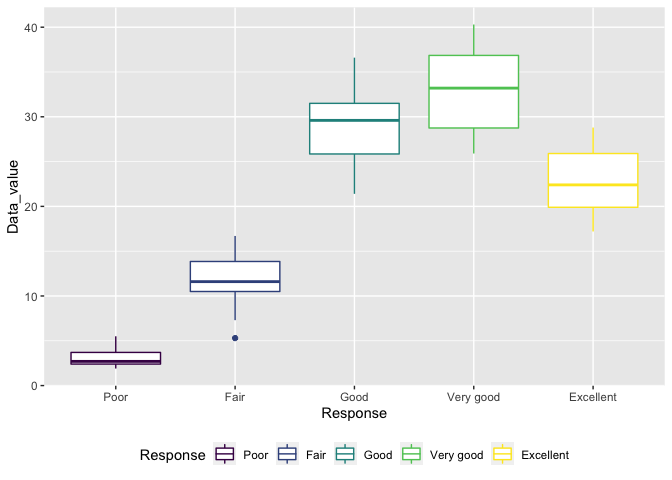
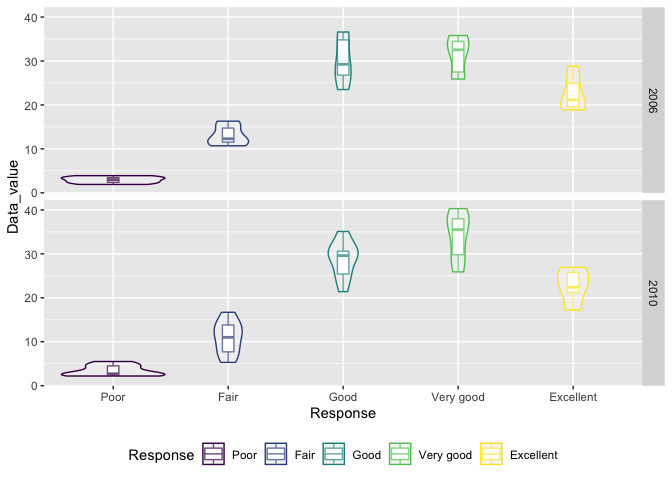
change answer add violin plot to box plot

diff --git a/p8105_hw3_cw3370.md b/p8105_hw3_cw3370.md
@@ -283,41 +283,26 @@ distribution_response <-
   brfss_smart2010 %>% 
   select(Year, Response,State = Locationabbr, Data_value) %>% 
   filter(State == "NY",
-         Year %in% c(2006,2010)) 
+         Year %in% c(2006,2010)) %>% 
+  arrange(Year,Response)
 
 ggplot(distribution_response,aes(x = Response, y = Data_value))+
-  geom_boxplot(aes(color = Response)) +
-  theme(legend.position = "bottom")
+  geom_boxplot(aes(color = Response),width = 0.1) +
+  geom_violin(aes(color = Response),alpha = 0.3) +
+  theme(legend.position = "bottom") + 
+  facet_grid(Year~.)
 ```
 
 ![](p8105_hw3_cw3370_files/figure-gfm/unnamed-chunk-10-1.png)<!-- -->
-
-``` r
-  facet_grid(1.~Year)
-```
-
-    ## <ggproto object: Class FacetGrid, Facet, gg>
-    ##     compute_layout: function
-    ##     draw_back: function
-    ##     draw_front: function
-    ##     draw_labels: function
-    ##     draw_panels: function
-    ##     finish_data: function
-    ##     init_scales: function
-    ##     map_data: function
-    ##     params: list
-    ##     setup_data: function
-    ##     setup_params: function
-    ##     shrink: TRUE
-    ##     train_scales: function
-    ##     vars: function
-    ##     super:  <ggproto object: Class FacetGrid, Facet, gg>
-
-<font size = 4 face="Times New Roman">The data value of “Excellent” and
-“Poor” didn’t change a lot over time. The data value of “Fair” and
-“Good”,decrease a little. The data value of “Very Good” increase a
-lot.It seems that many people who chose “Fair” and “Good” in 2006 choose
-“Very Good” in 2010.</font>
+<font size = 4 face="Times New Roman"> The range of data value of
+“Excellent” doesn’t change a lot while the data value of “Excellent”
+increased. The max of data value of “Very Good” increased and the data
+value of “Very Good” increased. The range of data value of “Good”
+doesn’t change a lot while the data value of “Good” in some location
+decreased. The min of data value of “Fair” decreased while the data
+value of “fair” in some location decreased. The min of data value of
+“Poor” doesn’t change a lot while the data value of “fair” in some
+location decreased. </font>
 
 # Problem 3
 
